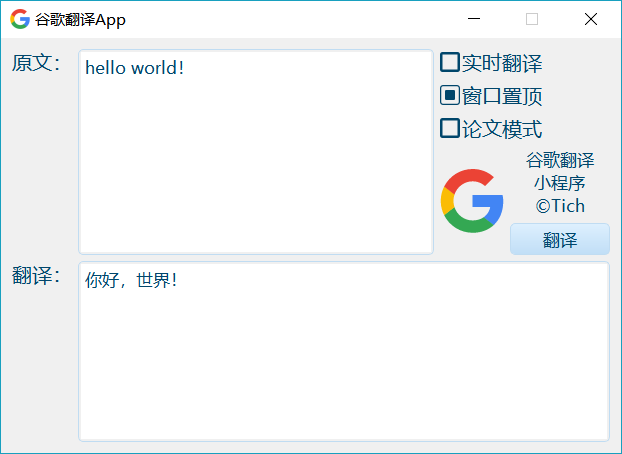
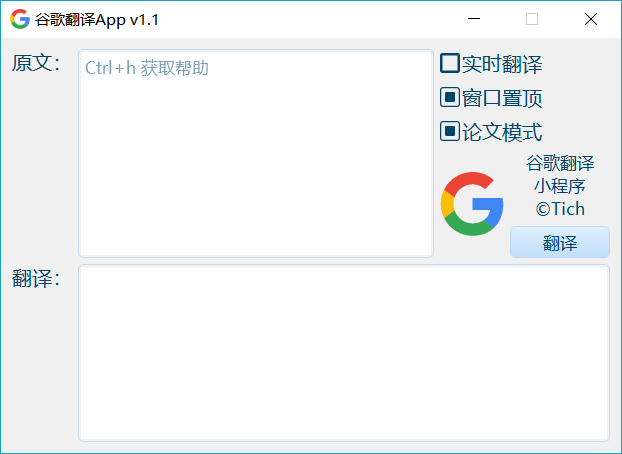
Google Translate 1.1

diff --git a/google-translate/main.py b/google-translate/main.py
@@ -6,25 +6,91 @@
 # @Version : Python3.5
 
 from PyQt5 import QtWidgets
-from PyQt5 import QtCore
+from PyQt5 import QtCore, QtGui
 from PyQt5.QtWidgets import QWidget, QApplication
 from mwin import Ui_MWin
 import sys
 
-class MWin(Ui_MWin):
-    def __init__(self, parent=None):
-        super(MWin, self).__init__()
+class Dialog(QWidget):
+    """对QWidget类重写，实现一些功能"""
+    def __init__(self):
+        super().__init__()
+ 
+    # 检测键盘回车按键
+    def keyPressEvent(self, event):
+        print("按下：" + str(event.key()))
+        # 举例
+        if(event.key() == QtCore.Qt.Key_Escape):
+            print('测试：ESC')
+        if(event.key() == QtCore.Qt.Key_A):
+            print('测试：A')
+        if(event.key() == QtCore.Qt.Key_1):
+            print('测试：1')
+        if(event.key() == QtCore.Qt.Key_Enter):
+            print('测试：Enter')
+        if(event.key() == QtCore.Qt.Key_Space):
+            print('测试：Space')
+        if (event.key() == QtCore.Qt.Key_H) and QApplication.keyboardModifiers() == QtCore.Qt.ControlModifier:
+            # self.box = QtWidgets.QMessageBox(QtWidgets.QMessageBox.about, "谷歌翻译App", "用户名和密码不匹配！")
+            # qyes=self.box.addButton("确定", QtWidgets.QMessageBox.YesRole)
+            # # qno=self.box.addButton("取消", QtWidgets.QMessageBox.NoRole)
+            # self.box.setWindowFlags(QtCore.Qt.WindowStaysOnTopHint)
+            # self.box.show()
+            self.reply = QtWidgets.QMessageBox(QtWidgets.QMessageBox.Warning, '谷歌翻译App v1.1',
+                                            "1、输入翻译。快捷键 Ctrl+Enter 或点击按钮 \
+                                             2、论文模式。需同时勾选实时翻译（监控剪贴板），会自动将回车和多个空格替换为一个空格，以及去掉一个特殊的符号 � \
+                                             \n3、窗口置顶。即应用始终在桌面顶层。 " )
+            self.reply.addButton(" 确 定 ", QtWidgets.QMessageBox.YesRole)
+            self.reply.setWindowFlags(QtCore.Qt.WindowStaysOnTopHint)
+            self.reply.setIconPixmap(QtGui.QPixmap(":/images/icon64"))
+            try:
+                with open('style.qss') as f: 
+                    style = f.read() # 读取样式表
+                    self.reply.setStyleSheet(style)
+            except:
+                print("open stylesheet error")
+            self.reply.show()
+            # reply = QtWidgets.QMessageBox.about(self,
+            #                                 '谷歌翻译App',
+            #                                 "1、输入翻译。快捷键 Ctrl+Enter 或点击按钮 \
+            #                                  2、论文模式。需同时勾选实时翻译（监控剪贴板），会自动将回车和多个空格替换为一个空格，以及去掉一个特殊的符号 � \
+            #                                  \n3、窗口置顶。即应用始终在桌面顶层。 "
+            #                                 )
+ 
+    def mousePressEvent(self, event):
+        if event.button() == QtCore.Qt.LeftButton:
+            print("鼠标左键点击")
+        elif event.button() == QtCore.Qt.RightButton:
+            print("鼠标右键点击")
+        elif event.button() == QtCore.Qt.MidButton:
+            print("鼠标中键点击")
+
+    # def closeEvent(self, event):
+    #     """
+    #     重写closeEvent方法，实现dialog窗体关闭时执行一些代码
+    #     :param event: close()触发的事件
+    #     :return: None
+    #     """
+    #     reply = QtWidgets.QMessageBox.question(self,
+    #                                            '谷歌翻译App',
+    #                                            "是否要退出程序？",
+    #                                            QtWidgets.QMessageBox.Yes | QtWidgets.QMessageBox.No,
+    #                                            QtWidgets.QMessageBox.No)
+    #     if reply == QtWidgets.QMessageBox.Yes:
+    #         event.accept()
+    #     else:
+    #         event.ignore()
 
 if __name__ == '__main__':
     app = QApplication(sys.argv)
-    base = QWidget() # 创建基本窗口
+    base = Dialog() # 创建基本窗口
     try:
         with open('style.qss') as f: 
             style = f.read() # 读取样式表
             base.setStyleSheet(style)
     except:
         print("open stylesheet error")
-    w = MWin() # 创建用户界面类的实例
+    w = Ui_MWin() # 创建用户界面类的实例
     w.setupUi(base) # 将用户界面加载到基本窗口
     # 监控剪贴板
     clipboard = QApplication.clipboard()

diff --git a/google-translate/mwin.py b/google-translate/mwin.py
@@ -8,8 +8,12 @@
 
 from PyQt5 import QtCore, QtGui, QtWidgets
 from PyQt5.QtWidgets import QApplication, QWidget
-from utils import trans_To_zh_CN
+from PyQt5.QtCore import QTimer, QThread, pyqtSignal
+# from utils import trans_To_zh_CN
 import re
+from googletrans import Translator
+
+GTransData = ''
 
 class Ui_MWin(QWidget):
     def __init__(self):
@@ -132,9 +136,10 @@ class Ui_MWin(QWidget):
 
     def retranslateUi(self, MWin):
         _translate = QtCore.QCoreApplication.translate
-        MWin.setWindowTitle(_translate("MWin", "谷歌翻译App"))
+        MWin.setWindowTitle(_translate("MWin", "谷歌翻译App v1.1"))
         self.originLabel.setText(_translate("MWin", "原文："))
         self.transLabel.setText(_translate("MWin", "翻译："))
+        self.originText.setPlaceholderText(_translate("MWin", "Ctrl+h 获取帮助"))
         self.realTimeTrans.setText(_translate("MWin", "实时翻译"))
         self.paperMode.setText(_translate("MWin", "论文模式"))
         self.alwaysFront.setText(_translate("MWin", "窗口置顶"))
@@ -159,7 +164,12 @@ class Ui_MWin(QWidget):
         text = self.originText.toPlainText()
         if text:
             try:
-                self.transText.setPlainText(trans_To_zh_CN(text))
+                # self.transText.setPlainText(trans_To_zh_CN(text))
+                self.t=GTranslator(text)
+                self.t.start()
+                self.transText.setPlainText("")
+                self.transText.setPlaceholderText("翻译中...")
+                self.t.trigger.connect(self.translated)
             except:
                 self.transText.setPlainText("翻译出错！")
 
@@ -196,8 +206,47 @@ class Ui_MWin(QWidget):
                 content = re.sub(r'', '', content)
             self.originText.setPlainText(content)
             try:
-                data = trans_To_zh_CN(content)
-                self.transText.setPlainText(data)
+                # data = trans_To_zh_CN(content)
+                # self.transText.setPlainText(data)
+                self.t=GTranslator(content)
+                self.t.start()
+                self.transText.setPlainText("")
+                self.transText.setPlaceholderText("翻译中...")
+                self.t.trigger.connect(self.translated)
             except:
                 self.transText.setPlainText("翻译出错！")
+
+    def translated(self):
+        global GTransData
+        if GTransData:
+            self.transText.setPlainText(GTransData)
+        else:
+            self.transText.setPlainText("翻译出错！")
+        GTransData = ""
+
+class GTranslator(QThread): 
+    trigger = pyqtSignal()
+    def __init__(self, content):
+        super().__init__()
+        self.content = content
+  
+    def run(self): 
+        """
+        将origin翻译成中文，origin可以是一个字符串，也可以是一个列表
+        """
+        Data = []
+        global GTransData
+        T = Translator(service_urls=['translate.google.cn'])
+        # ts = T.translate(['The quick brown fox', 'jumps over', 'the lazy dog'], dest='zh-CN')
+        # print('原文', origin)
+        ts = T.translate(self.content, dest='zh-CN')
+        # print('翻译后',ts.text)
+        if isinstance(ts.text, list):
+            for i in ts:
+                Data.append(i.text)
+            GTransData = Data
+        else:
+            GTransData = ts.text
+        self.trigger.emit()         # 翻译完毕后发出信号
+        
 import res_rc
